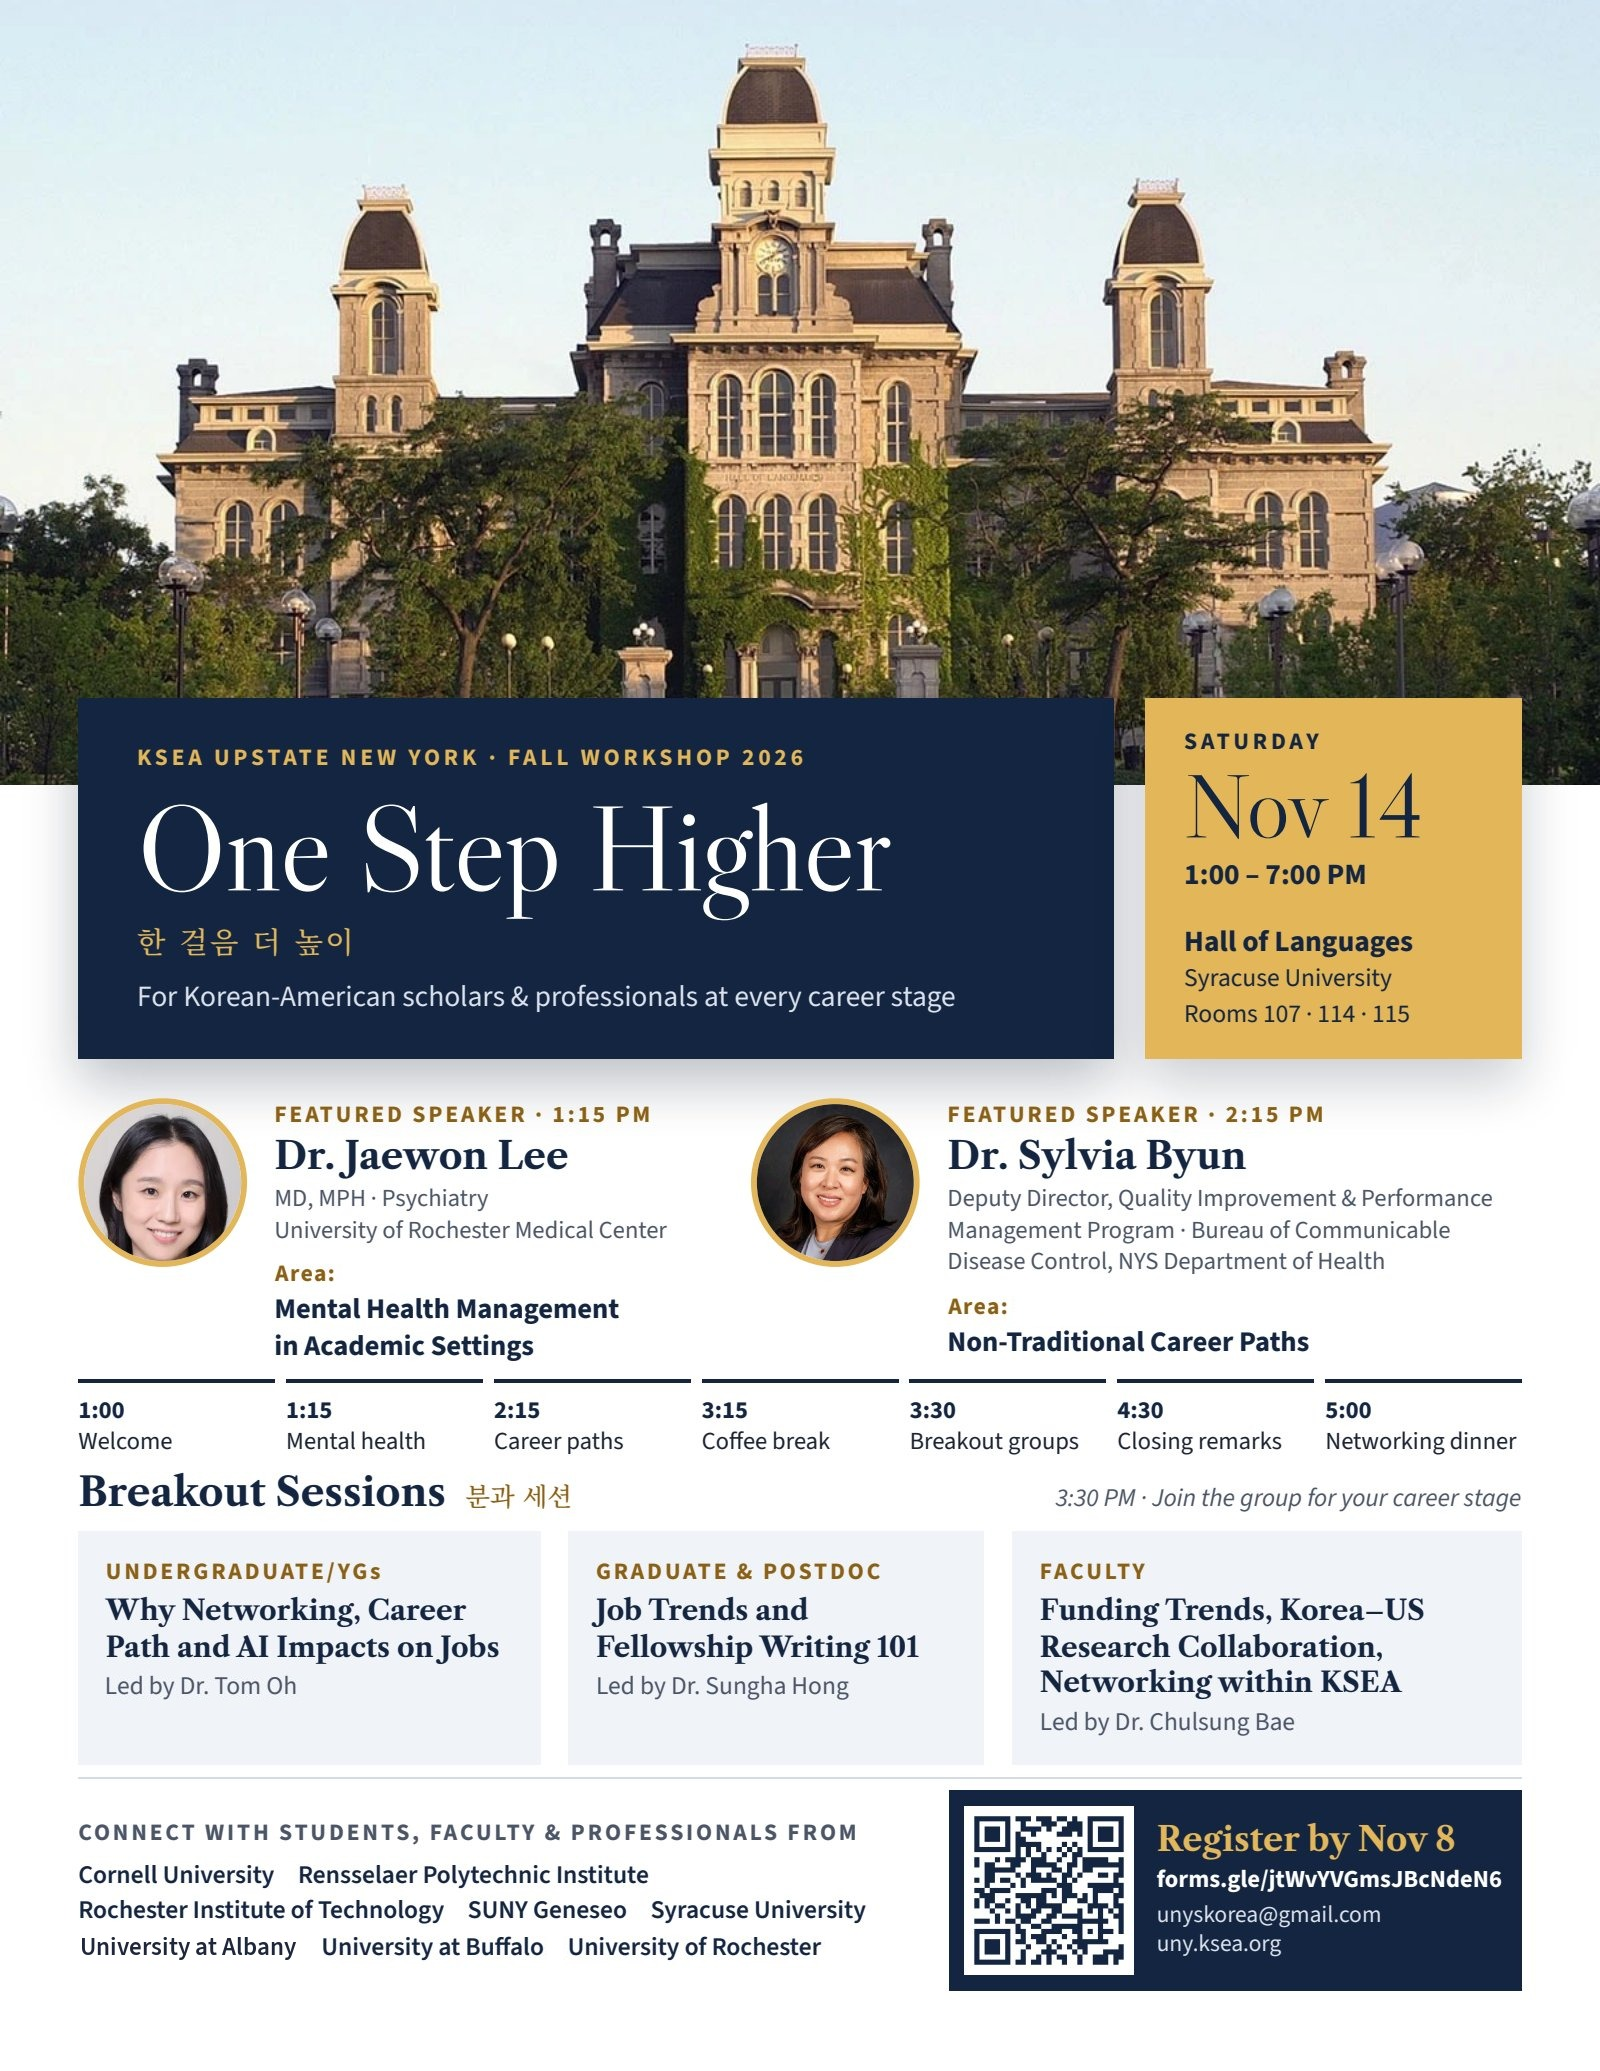
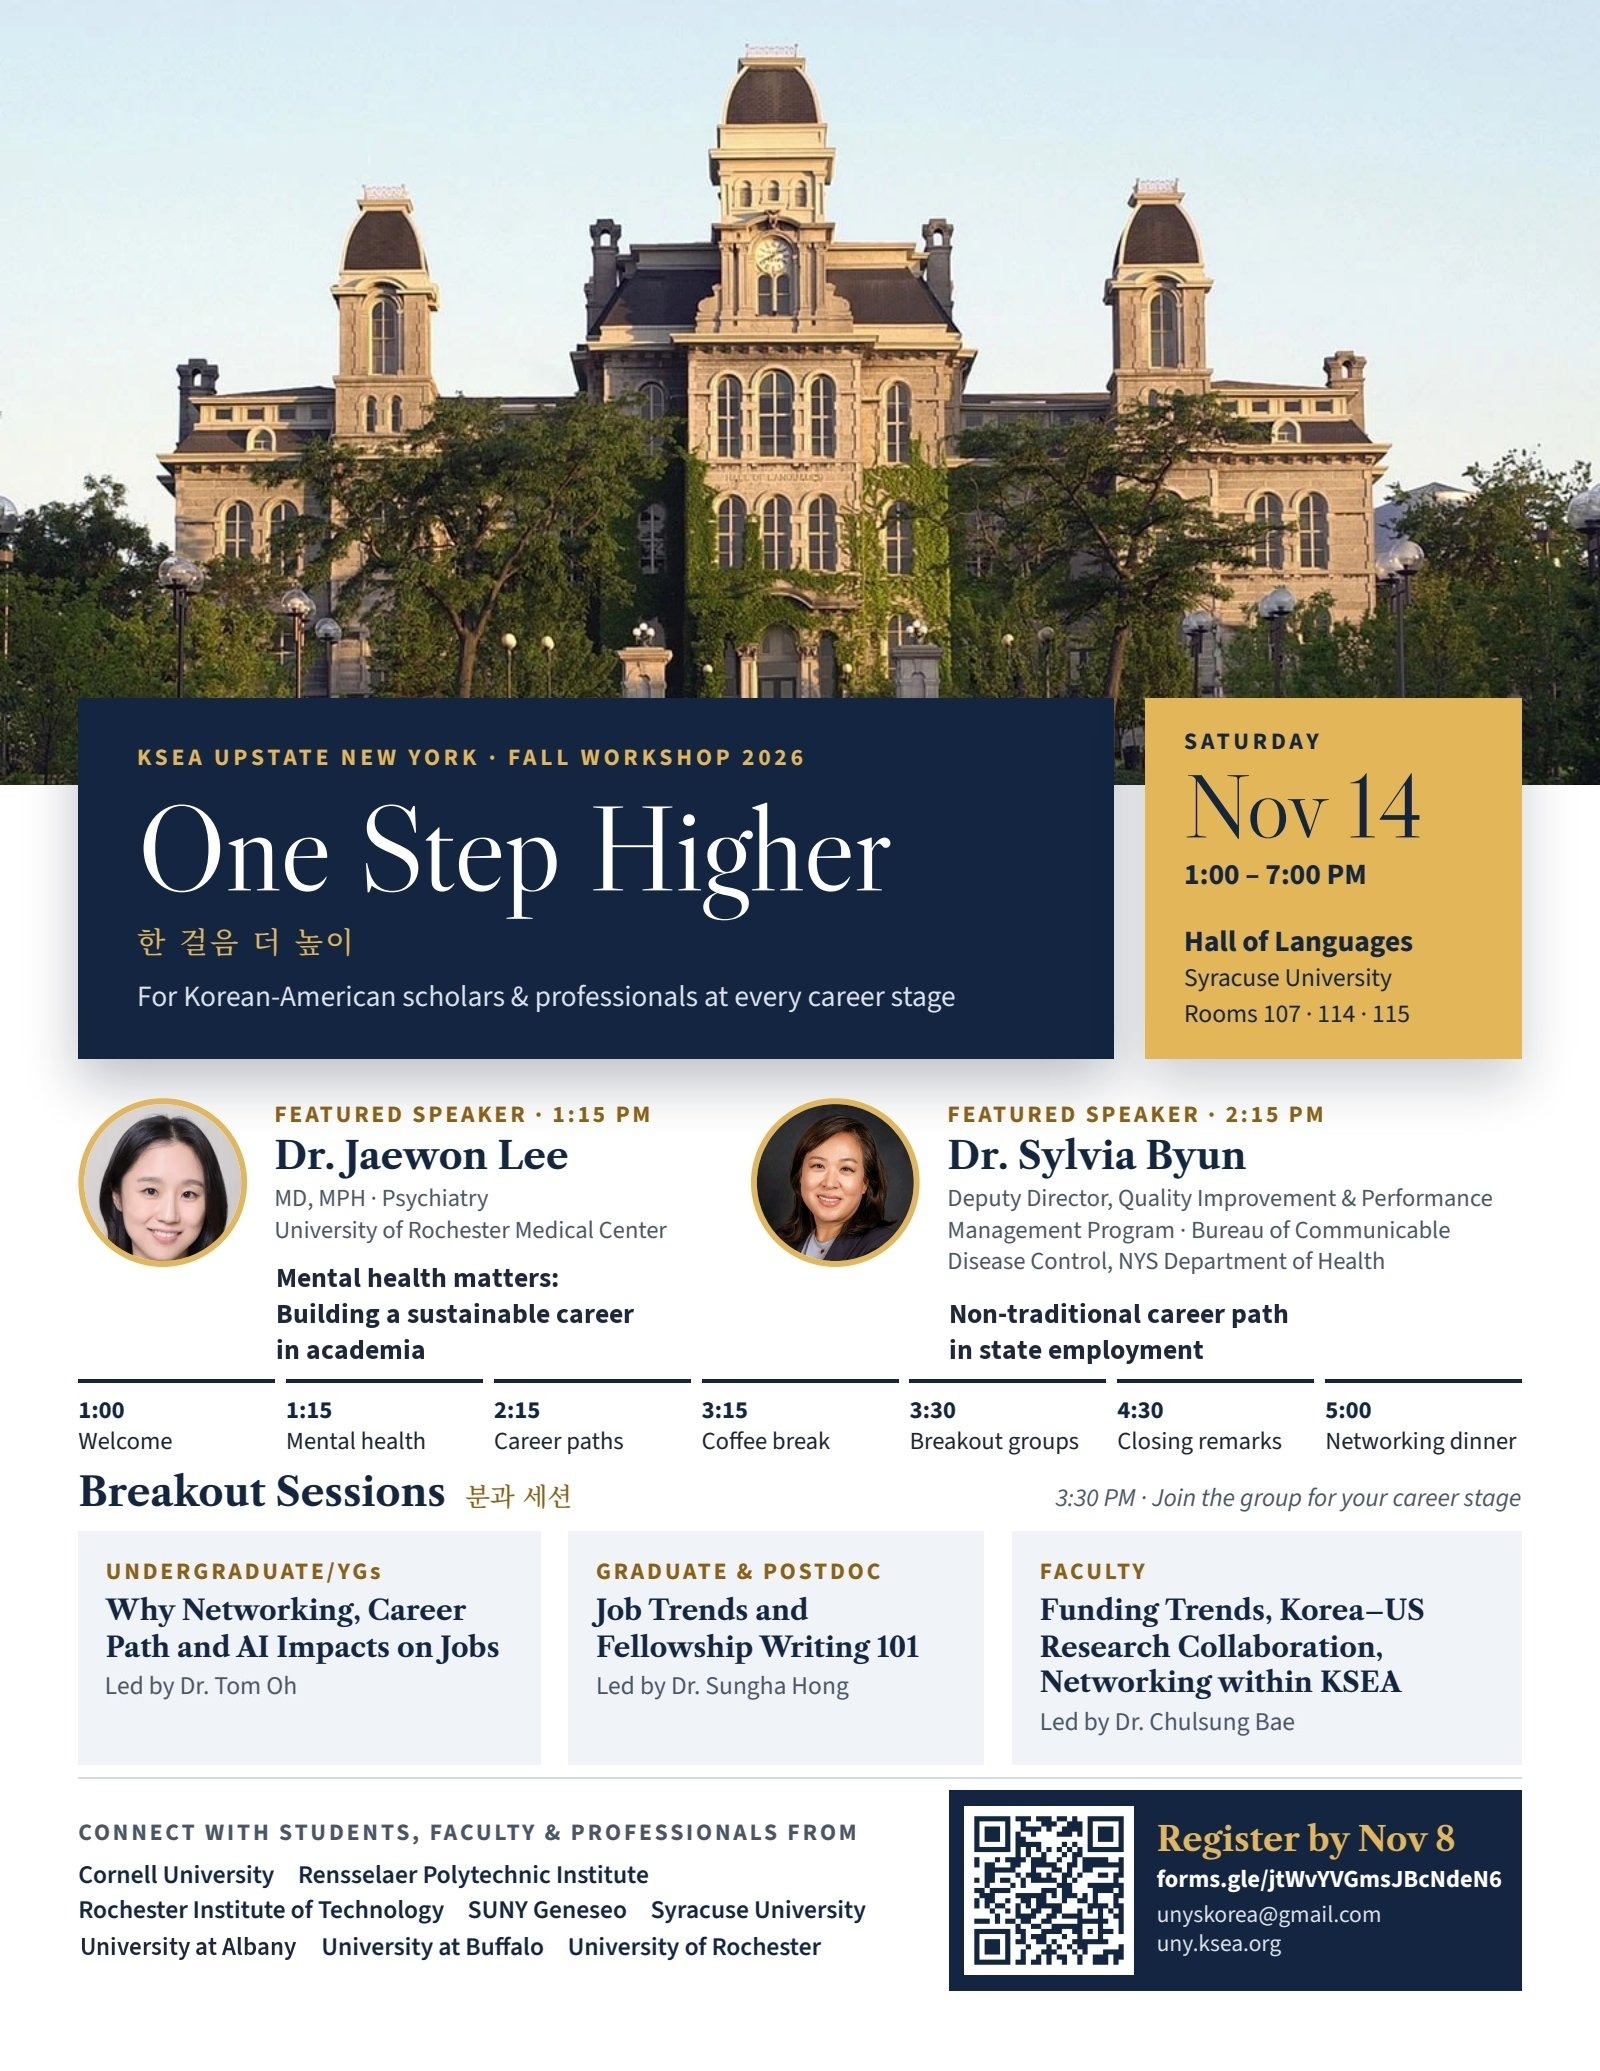
Fall Workshop 2026: add featured talk titles (site + poster)
- Dr. Jaewon Lee: "Mental health matters: Building a sustainable career in academia"
- Dr. Sylvia Byun: "Non-traditional career path in state employment"

Changed region(s): [[0.1562, 0.5872, 0.4062, 0.6799], [0.5938, 0.6181, 0.8125, 0.6799]]

diff --git a/src/content/events/2026-11-year-end-forum.md b/src/content/events/2026-11-year-end-forum.md
@@ -6,12 +6,12 @@ locationUrl: "https://www.google.com/maps/search/?api=1&query=Hall+of+Languages%
 status: "upcoming"
 kind: "meeting"
 theme: "One Step Higher · 한 걸음 더 높이"
-summary: "An afternoon at Syracuse University for Korean-American scholars and professionals at every career stage — featured talks on mental health in academia and non-traditional career paths, breakout sessions by career stage, and a networking dinner."
+summary: "An afternoon at Syracuse University for Korean-American scholars and professionals at every career stage — featured talks on building a sustainable career in academia and non-traditional careers in state employment, breakout sessions by career stage, and a networking dinner."
 plannedAttendees: 40
 plannedBudget: 850
 images:
   - src: "/images/events/2026-11-fall-workshop-poster.jpg"
-    alt: "Poster for KSEA Upstate New York Fall Workshop 2026, One Step Higher: Saturday November 14, 1 to 7 pm, Hall of Languages, Syracuse University, with featured speakers Dr. Jaewon Lee and Dr. Sylvia Byun, the schedule, three breakout sessions, and a registration QR code"
+    alt: "Poster for KSEA Upstate New York Fall Workshop 2026, One Step Higher: Saturday November 14, 1 to 7 pm, Hall of Languages, Syracuse University, with featured talks by Dr. Jaewon Lee, “Mental health matters: Building a sustainable career in academia,” and Dr. Sylvia Byun, “Non-traditional career path in state employment,” the schedule, three breakout sessions, and a registration QR code"
     caption: "The workshop poster."
 registrationUrl: "https://forms.gle/jtWvYVGmsJBcNdeN6"
 registrationLabel: "Register by Nov 8"
@@ -31,8 +31,8 @@ Syracuse is roughly central to the region, so the workshop brings the eastern an
 | Time | Session |
 | --- | --- |
 | **1:00 pm** | Welcome |
-| **1:15 pm** | **Featured talk: mental health** — Dr. Jaewon Lee |
-| **2:15 pm** | **Featured talk: career paths** — Dr. Sylvia Byun |
+| **1:15 pm** | Featured talk: **“Mental health matters: Building a sustainable career in academia”** — Dr. Jaewon Lee |
+| **2:15 pm** | Featured talk: **“Non-traditional career path in state employment”** — Dr. Sylvia Byun |
 | **3:15 pm** | Coffee break |
 | **3:30 pm** | **Breakout sessions** by career stage |
 | **4:30 pm** | Closing remarks |
@@ -44,13 +44,13 @@ Syracuse is roughly central to the region, so the workshop brings the eastern an
 
 **MD, MPH · Psychiatry, University of Rochester Medical Center**
 
-On **mental health management in academic settings**.
+**“Mental health matters: Building a sustainable career in academia”**
 
 ### Dr. Sylvia Byun — 2:15 pm
 
 **Deputy Director, Quality Improvement & Performance Management Program, Bureau of Communicable Disease Control, New York State Department of Health**
 
-On **non-traditional career paths**.
+**“Non-traditional career path in state employment”**
 
 ## Breakout sessions — 3:30 pm
 
